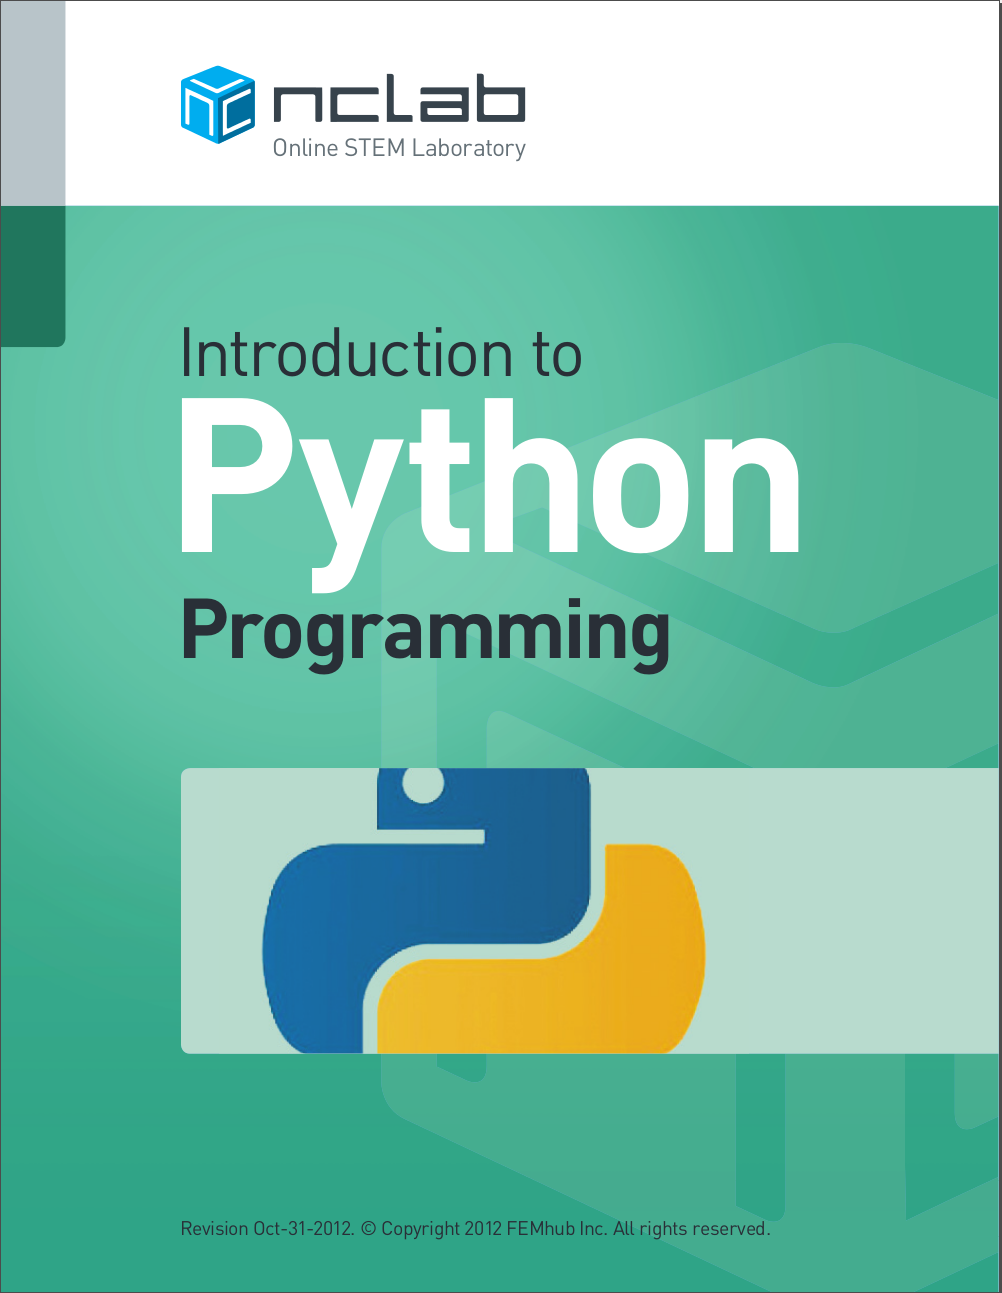
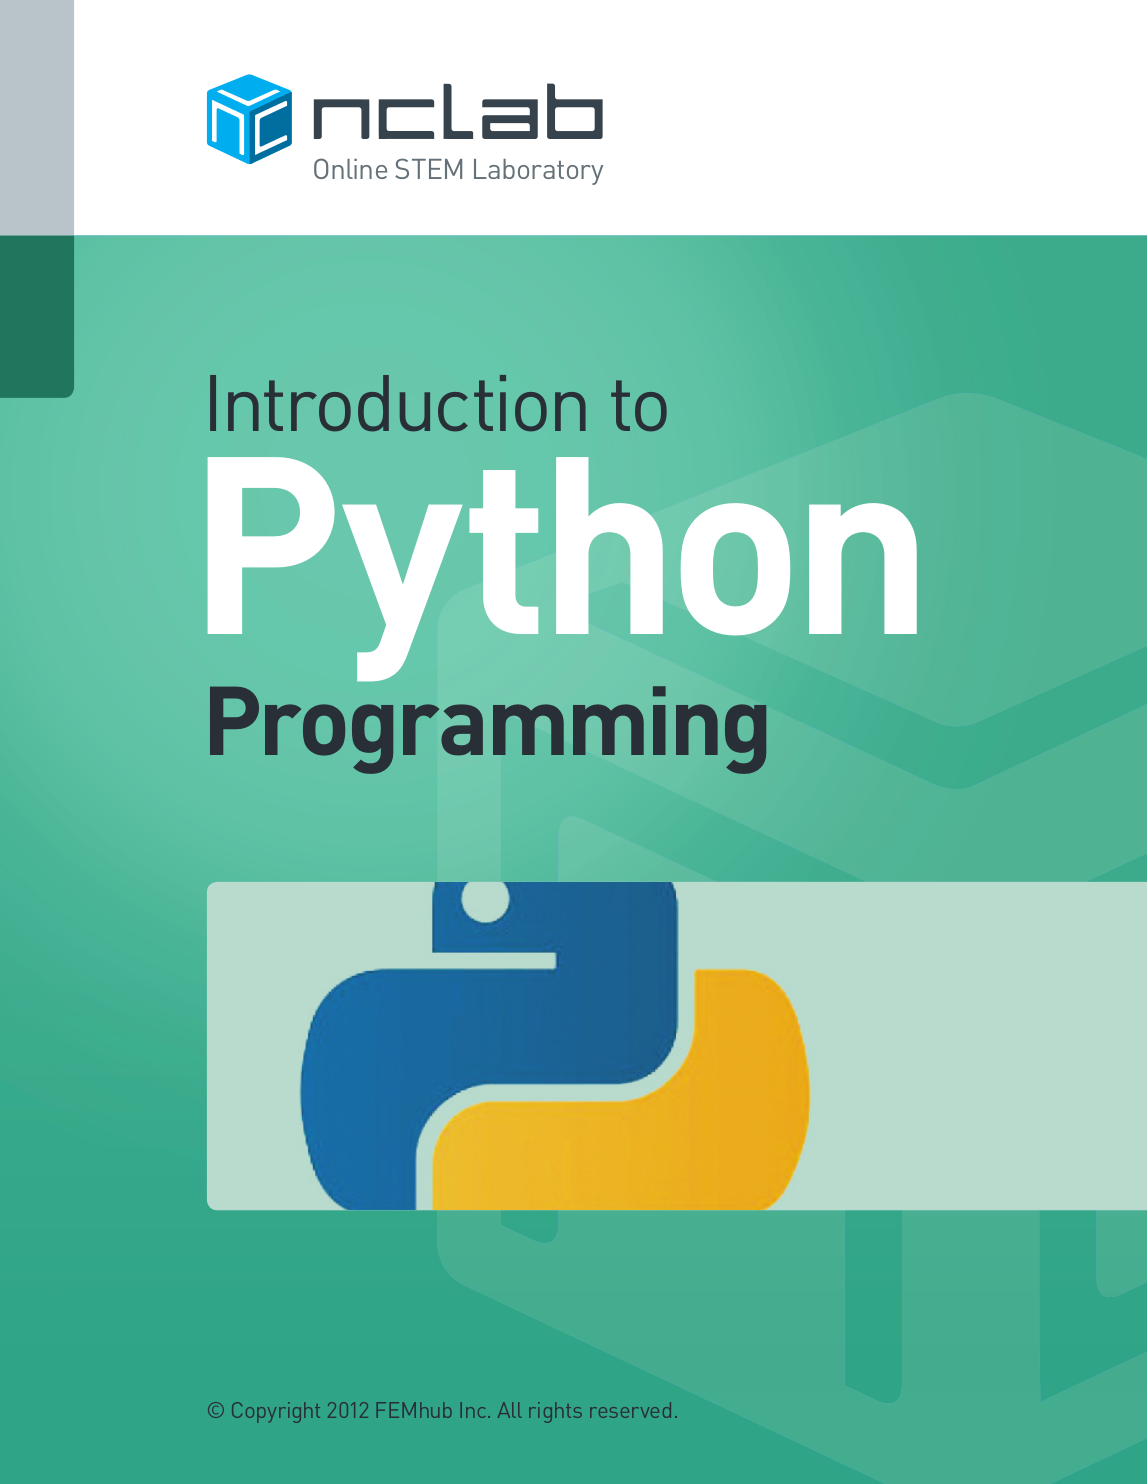
Mention TR-Design

diff --git a/python_en.tex b/python_en.tex
@@ -227,6 +227,10 @@
 \vbox{}
 \newpage
 \vbox{}
+\vfill
+
+\centerline{Revision Nov-03-2012}
+
 %%%%%%%%%%%%%%%%%%%%%%%%%%%%%%%%%%%%%%%%%%%%%%%%%%%%%%%%%%%%%%%%%%%%%%%%%
 \newpage
 
@@ -278,6 +282,8 @@ can send those at any time via email to {\tt pavel@femhub.com}.\\[4mm]
 \item Steven Lamb, Philadelphia, USA.
 \item Norman Dunbar, Leeds, West Yorkshire, England.
 \end{itemize}
+\vspace{4mm}
+{\bf Graphics Design:} TR-Design {\tt http://tr-design.cz}
 
 %\vspace{6mm}
 %\noindent
